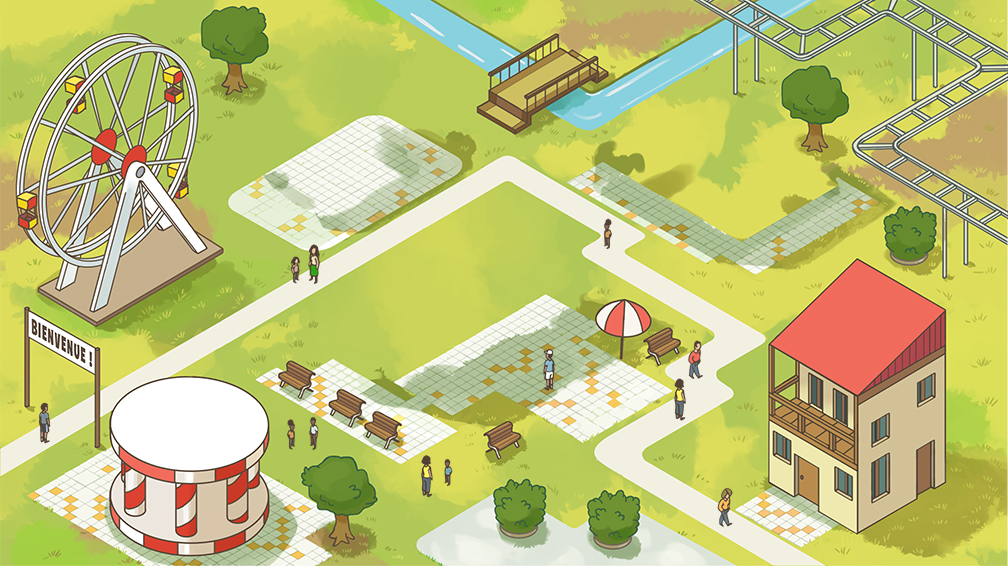
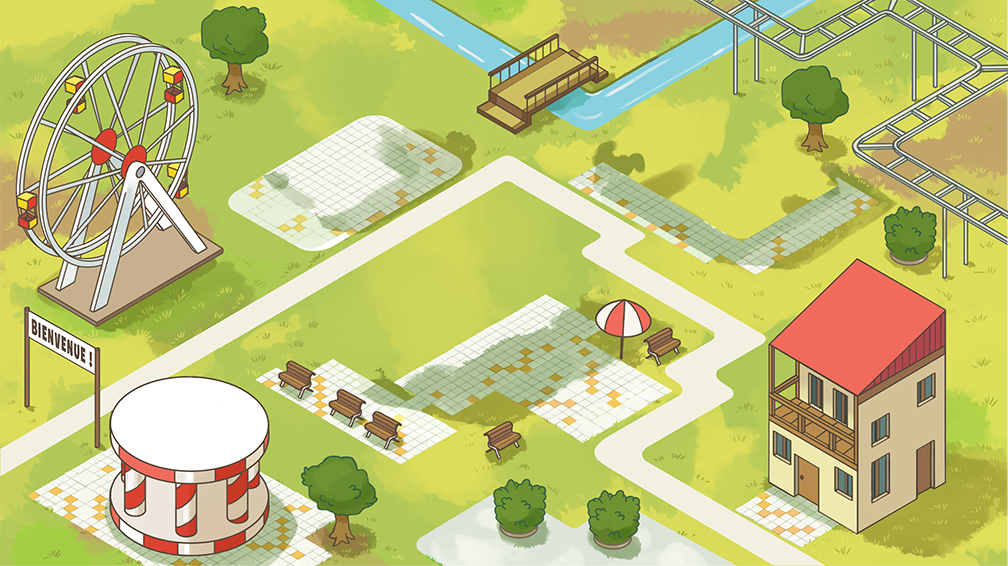
affiche les personnages au dessus du chemin de progression

diff --git a/src/situations/accueil/infra/depot_ressources_accueil.js b/src/situations/accueil/infra/depot_ressources_accueil.js
@@ -1,5 +1,6 @@
 import DepotRessources from 'commun/infra/depot_ressources';
 import fondAccueil from 'accueil/assets/fond-accueil.jpg';
+import personnages from 'accueil/assets/personnages.png';
 import tri from 'accueil/assets/tri.png';
 import inventaire from 'accueil/assets/inventaire.png';
 import controle from 'accueil/assets/controle.png';
@@ -15,7 +16,7 @@ const batiments = {
 export default class DepotRessourcesAccueil extends DepotRessources {
   constructor (chargeurs) {
     super(chargeurs);
-    this.charge([fondAccueil, tri, inventaire, controle]);
+    this.charge([fondAccueil, personnages, tri, inventaire, controle]);
     this.chargeContexte(progression);
     this._progression = progression.keys().reduce((memo, fichier) => {
       memo[fichier.match(/progression([1-4]).png/)[1]] = progression(fichier);
@@ -25,6 +26,10 @@ export default class DepotRessourcesAccueil extends DepotRessources {
 
   fondAccueil () {
     return this.ressource(fondAccueil);
+  }
+
+  personnages () {
+    return this.ressource(personnages);
   }
 
   batimentSituation (situation) {

diff --git a/tests/situations/accueil/vues/accueil.js b/tests/situations/accueil/vues/accueil.js
@@ -19,6 +19,10 @@ describe('La vue accueil', function () {
         return { src: 'image-fond' };
       }
 
+      personnages () {
+        return { src: 'personnages' };
+      }
+
       batimentSituation (identifiant) {
         return { src: identifiant };
       }
@@ -80,10 +84,11 @@ describe('La vue accueil', function () {
     expect($('#accueil #formulaire-identification').length).to.equal(0);
   });
 
-  it("affiche le fond de l'accueil", function () {
+  it("affiche le fond de l'accueil et les personnages", function () {
     const vueAccueil = new VueAccueil([], registreUtilisateur, depotRessources);
     vueAccueil.affiche('#accueil', $);
     expect($('.situations').attr('style')).to.equal('background-image: url(image-fond);');
+    expect($('.personnages').attr('style')).to.equal('background-image: url(personnages);');
   });
 
   it('affiche la progression dans le parc', function () {

diff --git a/src/situations/accueil/vues/accueil.js b/src/situations/accueil/vues/accueil.js
@@ -24,6 +24,9 @@ export default class VueAccueil {
     const creeElementListe = (situations) => {
       const $liste = $(`<div class='situations'></div>`);
       $liste.css('background-image', `url('${this.depotRessources.fondAccueil().src}')`);
+      const $personnages = $(`<div class='personnages'></div>`);
+      $personnages.css('background-image', `url('${this.depotRessources.personnages().src}')`);
+      $liste.append($personnages);
       const $elementsSituation = situations.map((s) => { return creeElementSituation(s); });
       $liste.append(...$elementsSituation);
       return $liste;

diff --git a/src/situations/accueil/styles/accueil.scss b/src/situations/accueil/styles/accueil.scss
@@ -54,7 +54,7 @@
     }
   }
 
-  .progression {
+  .progression, .personnages {
     position: absolute;
     top: 0;
     left: 0;
